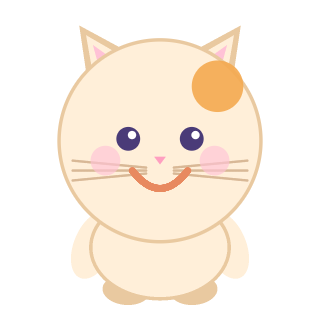
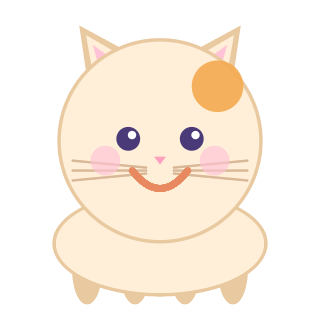
Redraw the 9-animal cast as four-legged animals, not upright
Feedback: the animal cast (dog/cat/cow/frog/pig/chicken/lion/elephant/
sheep) should stand on four legs like a real animal (e.g. a sheep),
not share the mascot cast's upright two-arm/two-leg "person" body.

Replaced drawStandingBody() in tools/generate-animals.js with
drawQuadrupedBody(): a wide horizontal torso with four legs evenly
spaced underneath, legs drawn first so the torso overlaps their tops
and only the lower "foot" ends show, like a real standing animal.
Left tools/generate-characters.js (kuma/neko/usagi) untouched - those
are upright guide-character mascots, not part of this feedback.

Regenerated all 9 animal PNGs. Bumped sw.js CACHE_VERSION to v28.

Changed region(s): [[0.1562, 0.6562, 0.8438, 0.9688]]

diff --git a/tools/generate-animals.js b/tools/generate-animals.js
@@ -37,21 +37,25 @@ function drawBlush(cv, cx, cy, r, color = '#FFB0C8') {
   fillCircle(cv, cx + r * 0.55, cy + r * 0.2, r * 0.15, color, 0.65);
 }
 
-// A small standing body - same silhouette used for the mascot cast
-// (tools/generate-characters.js), kept subordinate to the head rather than
-// an equally-prominent "chibi" torso, per feedback that the earlier bigger
-// body read as too deformed/toy-like against the original character look.
-function drawStandingBody(cv, cx, headCy, headR, bodyColor, outlineColor, footColor) {
-  const neckY = headCy + headR * 0.8;
-  const bodyRx = headR * 0.68;
+// A real four-legged animal stance (wide horizontal torso, four legs
+// evenly spaced underneath) rather than the upright two-arm/two-leg body
+// used for the mascot cast (tools/generate-characters.js) - the mascots are
+// guide characters that make sense standing like a person, but the animal
+// roster should look like actual animals (a sheep standing on four legs,
+// not a sheep standing on two). Legs are drawn first so the torso overlaps
+// their tops and only the lower "foot" ends peek out below the body.
+function drawQuadrupedBody(cv, cx, headCy, headR, bodyColor, outlineColor, footColor) {
+  const neckY = headCy + headR * 0.76;
+  const bodyRx = headR * 1.05;
   const bodyRy = headR * 0.5;
   const bodyCy = neckY + bodyRy * 0.55;
 
-  fillEllipse(cv, cx - bodyRx * 0.5, bodyCy + bodyRy * 0.86, headR * 0.24, headR * 0.15, 0.08, footColor);
-  fillEllipse(cv, cx + bodyRx * 0.5, bodyCy + bodyRy * 0.86, headR * 0.24, headR * 0.15, -0.08, footColor);
-
-  fillEllipse(cv, cx - bodyRx * 0.98, bodyCy - bodyRy * 0.05, headR * 0.2, headR * 0.36, 0.4, bodyColor);
-  fillEllipse(cv, cx + bodyRx * 0.98, bodyCy - bodyRy * 0.05, headR * 0.2, headR * 0.36, -0.4, bodyColor);
+  const legRx = headR * 0.15;
+  const legRy = headR * 0.34;
+  const legCy = bodyCy + bodyRy * 0.55;
+  [-0.7, -0.24, 0.24, 0.7].forEach((fx) => {
+    fillEllipse(cv, cx + fx * bodyRx, legCy, legRx, legRy, 0, footColor);
+  });
 
   fillEllipse(cv, cx, bodyCy, bodyRx + headR * 0.035, bodyRy + headR * 0.035, 0, outlineColor);
   fillEllipse(cv, cx, bodyCy, bodyRx, bodyRy, 0, bodyColor);
@@ -64,7 +68,7 @@ function drawDog(size) {
   const cx = size * 0.5, cy = size * 0.44, r = size * 0.31;
   const fur = '#E8B372', outline = '#C9925A', earColor = '#C9925A', snoutColor = '#FBEBD8';
 
-  drawStandingBody(cv, cx, cy, r, fur, outline, outline);
+  drawQuadrupedBody(cv, cx, cy, r, fur, outline, outline);
 
   fillEllipse(cv, cx - r * 0.92, cy - r * 0.05, r * 0.3, r * 0.62, 0.35, earColor);
   fillEllipse(cv, cx + r * 0.92, cy - r * 0.05, r * 0.3, r * 0.62, -0.35, earColor);
@@ -85,7 +89,7 @@ function drawCat(size) {
   const cx = size * 0.5, cy = size * 0.44, r = size * 0.31;
   const fur = '#FFEFD9', outline = '#E9C9A0', patch = '#F4A94F';
 
-  drawStandingBody(cv, cx, cy, r, fur, outline, outline);
+  drawQuadrupedBody(cv, cx, cy, r, fur, outline, outline);
 
   fillPolygon(cv, earTriangle(cx, cy, r, -125, 0.8, 0.62, 0.62), outline);
   fillPolygon(cv, earTriangle(cx, cy, r, -55, 0.8, 0.62, 0.62), outline);
@@ -117,7 +121,7 @@ function drawCow(size) {
   const cx = size * 0.5, cy = size * 0.44, r = size * 0.31;
   const fur = '#FDFBF5', outline = '#D8D0C0', patch = '#6B5B4A', snoutColor = '#FFC7D6', hornColor = '#F0E4D0';
 
-  drawStandingBody(cv, cx, cy, r, fur, outline, outline);
+  drawQuadrupedBody(cv, cx, cy, r, fur, outline, outline);
 
   fillEllipse(cv, cx - r * 0.4, cy - r * 0.98, r * 0.14, r * 0.24, -0.2, hornColor);
   fillEllipse(cv, cx + r * 0.4, cy - r * 0.98, r * 0.14, r * 0.24, 0.2, hornColor);
@@ -142,7 +146,7 @@ function drawFrog(size) {
   const cx = size * 0.5, cy = size * 0.46, r = size * 0.31;
   const skin = '#8BC34A', outline = '#5E8F2E', belly = '#DFF3BC';
 
-  drawStandingBody(cv, cx, cy, r, skin, outline, outline);
+  drawQuadrupedBody(cv, cx, cy, r, skin, outline, outline);
   fillCircleOutlined(cv, cx, cy, r, skin, outline, r * 0.035);
   fillEllipse(cv, cx, cy + r * 0.58, r * 0.5, r * 0.3, 0, belly);
 
@@ -164,7 +168,7 @@ function drawPig(size) {
   const cx = size * 0.5, cy = size * 0.44, r = size * 0.31;
   const fur = '#FFB3C6', outline = '#E8899E', snoutColor = '#FF8FA8';
 
-  drawStandingBody(cv, cx, cy, r, fur, outline, outline);
+  drawQuadrupedBody(cv, cx, cy, r, fur, outline, outline);
 
   fillPolygon(cv, earTriangle(cx, cy, r, -120, 0.75, 0.42, 0.4), outline);
   fillPolygon(cv, earTriangle(cx, cy, r, -60, 0.75, 0.42, 0.4), outline);
@@ -186,7 +190,7 @@ function drawChicken(size) {
   const cx = size * 0.5, cy = size * 0.44, r = size * 0.31;
   const feather = '#FFF6E6', outline = '#E8DCC0', comb = '#FF6B5B', beak = '#F4A94F';
 
-  drawStandingBody(cv, cx, cy, r, feather, outline, beak);
+  drawQuadrupedBody(cv, cx, cy, r, feather, outline, beak);
 
   [-1, 0, 1].forEach((i) => fillCircle(cv, cx + i * r * 0.16, cy - r * 1.02, r * 0.18, comb));
   fillCircleOutlined(cv, cx, cy, r, feather, outline, r * 0.035);
@@ -203,7 +207,7 @@ function drawLion(size) {
   const cx = size * 0.5, cy = size * 0.44, r = size * 0.31;
   const fur = '#F2B84B', outline = '#D89A2E', mane = '#E08A2E', snoutColor = '#FBEBD8';
 
-  drawStandingBody(cv, cx, cy, r, fur, outline, outline);
+  drawQuadrupedBody(cv, cx, cy, r, fur, outline, outline);
 
   const maneCount = 14;
   for (let i = 0; i < maneCount; i++) {
@@ -228,7 +232,7 @@ function drawElephant(size) {
   const cx = size * 0.5, cy = size * 0.44, r = size * 0.31;
   const fur = '#C3CAD3', outline = '#9AA5B0';
 
-  drawStandingBody(cv, cx, cy, r, fur, outline, outline);
+  drawQuadrupedBody(cv, cx, cy, r, fur, outline, outline);
 
   fillEllipse(cv, cx - r * 1.0, cy - r * 0.08, r * 0.48, r * 0.6, 0.12, outline);
   fillEllipse(cv, cx + r * 1.0, cy - r * 0.08, r * 0.48, r * 0.6, -0.12, outline);
@@ -255,7 +259,7 @@ function drawSheep(size) {
   const cx = size * 0.5, cy = size * 0.44, r = size * 0.31;
   const wool = '#FDFBF5', woolOutline = '#E4DED0', face = '#8D7B6B', faceOutline = '#6E5E50';
 
-  drawStandingBody(cv, cx, cy, r, wool, woolOutline, faceOutline);
+  drawQuadrupedBody(cv, cx, cy, r, wool, woolOutline, faceOutline);
 
   const woolCount = 10;
   for (let i = 0; i < woolCount; i++) {

diff --git a/sw.js b/sw.js
@@ -2,7 +2,7 @@
 // (the whole point: this app is meant to be used out and about).
 // Paths are relative to this file's own location, so it works whether the
 // site is hosted at a domain root or a GitHub Pages project subpath.
-const CACHE_VERSION = 'v27';
+const CACHE_VERSION = 'v28';
 const CACHE_NAME = `asobibako-${CACHE_VERSION}`;
 
 const PRECACHE_URLS = [
